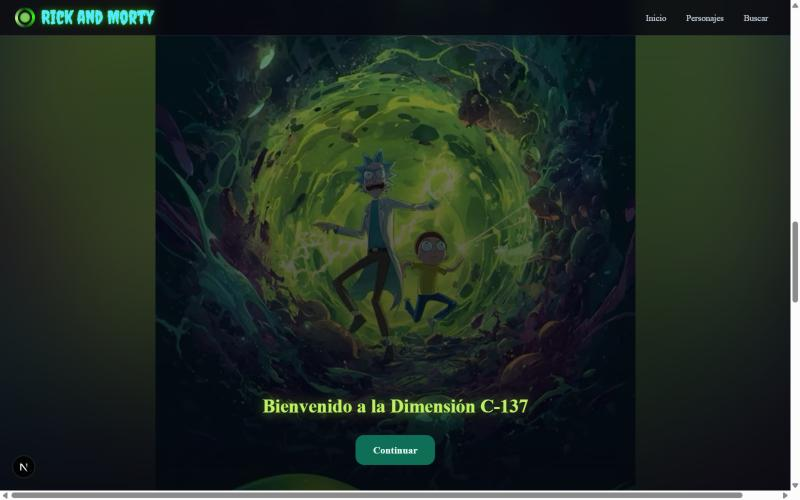
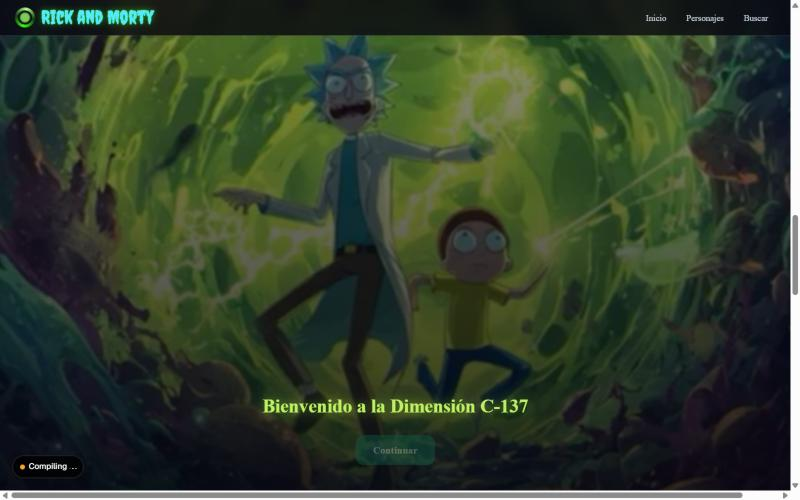
fix : semana10 - quitar la costura del fondo y la altura del hero
La tecnica de dos capas (foto nitida en una franja + bordes
desenfocados) dejaba una costura dura donde terminaba la franja, mas
visible mientras mas ancha la pantalla, ademas del hueco vacio del
commit anterior. Se simplifica a una sola capa con un desenfoque parejo
y muy leve (1.5px): sin costura en ningun ancho.

El hero tambien tenia min-height atado al 100dvh del viewport, asi que
en pantallas muy altas quedaba con mucho espacio vacio antes del aviso
de "Scroll". Ahora usa una altura fija razonable (640/720/800px segun
breakpoint), igual que el tablero del lienzo no dependia del alto de
pantalla del visitante.

diff --git a/SEMANA10/next-ssg-isr-app/src/app/RickandMorty/BackgroundPhoto.tsx b/SEMANA10/next-ssg-isr-app/src/app/RickandMorty/BackgroundPhoto.tsx
@@ -1,54 +1,36 @@
 import Image from 'next/image';
 
 /*
- * Nuestras fotos de referencia son wallpapers de celular (angostas y
- * verticales, ~700px de ancho). Si se estiran con object-cover a todo el
- * ancho de un monitor (1920px+), se ven borrosas/pixeladas: hay que
- * agrandarlas mucho más de lo que su resolución real permite.
- *
- * Por eso cada fondo se arma en dos capas: una copia muy desenfocada que sí
- * cubre todo el ancho (la suavidad no se nota porque ya está borrosa), y la
- * foto nítida centrada en una franja angosta, cerca de su resolución real,
- * para que no pierda calidad.
+ * Nuestras fotos de referencia son wallpapers de celular angostos (~700px),
+ * así que estiradas a pantalla completa pierden algo de nitidez. Probamos
+ * una versión con una franja nítida al centro y los bordes desenfocados,
+ * pero dejaba una costura dura donde empezaba la franja (y en pantallas
+ * anchas un hueco vacío) — peor que la suavidad original. Una sola capa
+ * con un desenfoque parejo y muy leve (se nota al mirar de cerca, no a
+ * simple vista) evita la costura y queda pareja en cualquier ancho.
  */
 export default function BackgroundPhoto({
     src,
     alt = '',
     priority = false,
     focusClassName = '',
-    wide = false,
 }: {
     src: string;
     alt?: string;
     priority?: boolean;
     focusClassName?: string;
-    // para tomas panorámicas (no un retrato de cerca): una franja nítida más
-    // ancha, porque una foto de paisaje tolera mejor que se estire un poco y
-    // así no queda tanto espacio desenfocado y vacío en pantallas anchas
-    wide?: boolean;
 }) {
     return (
         <div className="absolute inset-0 overflow-hidden">
             <Image
                 src={src}
-                alt=""
+                alt={alt}
                 fill
-                aria-hidden
+                priority={priority}
                 sizes="100vw"
-                className="scale-110 object-cover opacity-90 blur-2xl"
+                className={`scale-105 object-cover ${focusClassName}`}
+                style={{ filter: 'blur(1.5px)' }}
             />
-            <div
-                className={`absolute inset-y-0 left-1/2 w-full -translate-x-1/2 ${wide ? 'max-w-6xl' : 'max-w-3xl'}`}
-            >
-                <Image
-                    src={src}
-                    alt={alt}
-                    fill
-                    priority={priority}
-                    sizes={wide ? '1152px' : '768px'}
-                    className={`object-cover ${focusClassName}`}
-                />
-            </div>
         </div>
     );
 }

diff --git a/SEMANA10/next-ssg-isr-app/src/app/RickandMorty/Hero.tsx b/SEMANA10/next-ssg-isr-app/src/app/RickandMorty/Hero.tsx
@@ -110,7 +110,7 @@ export default function Hero({ total }: { total: number }) {
     const contentDelay = skipIntro ? 0 : INTRO_MS / 1000;
 
     return (
-        <section className="relative isolate flex min-h-[calc(100dvh-57px)] flex-col overflow-hidden">
+        <section className="relative isolate flex min-h-[640px] flex-col overflow-hidden sm:min-h-[720px] lg:min-h-[800px]">
             {introVisible && (
                 <IntroOverlay
                     onDone={(reducedMotion) => {
@@ -122,7 +122,7 @@ export default function Hero({ total }: { total: number }) {
 
             {/* fondo a página completa, oscurecido hacia el texto (izquierda) */}
             <div className="absolute inset-0 -z-10">
-                <BackgroundPhoto src="/rickandmorty/landscape.jpg" priority wide />
+                <BackgroundPhoto src="/rickandmorty/landscape.jpg" priority />
                 <div
                     className="absolute inset-0"
                     style={{
